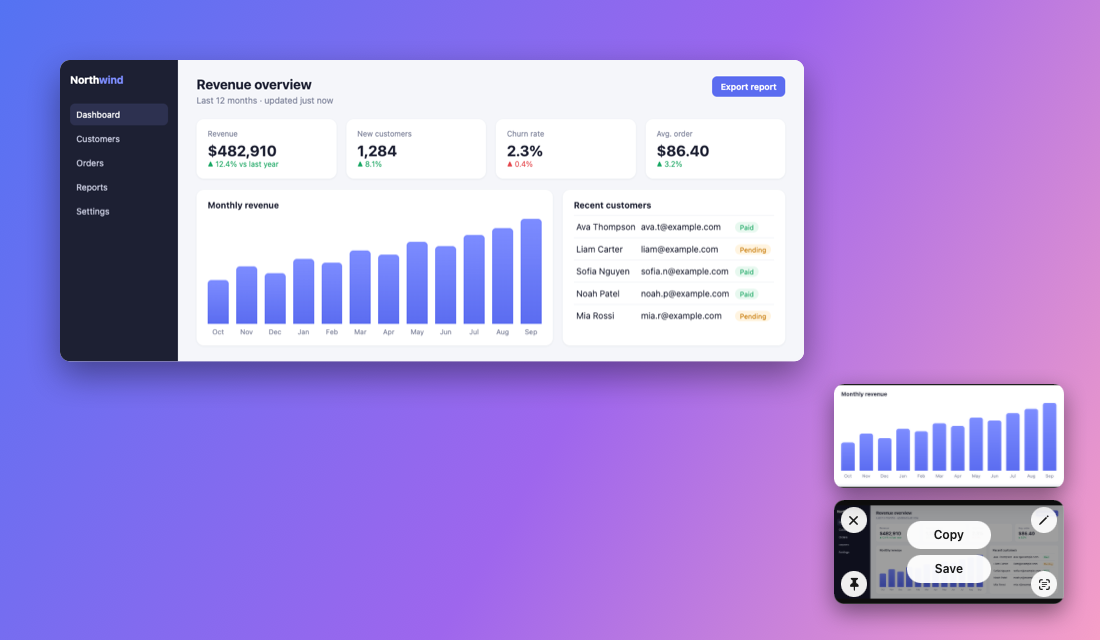
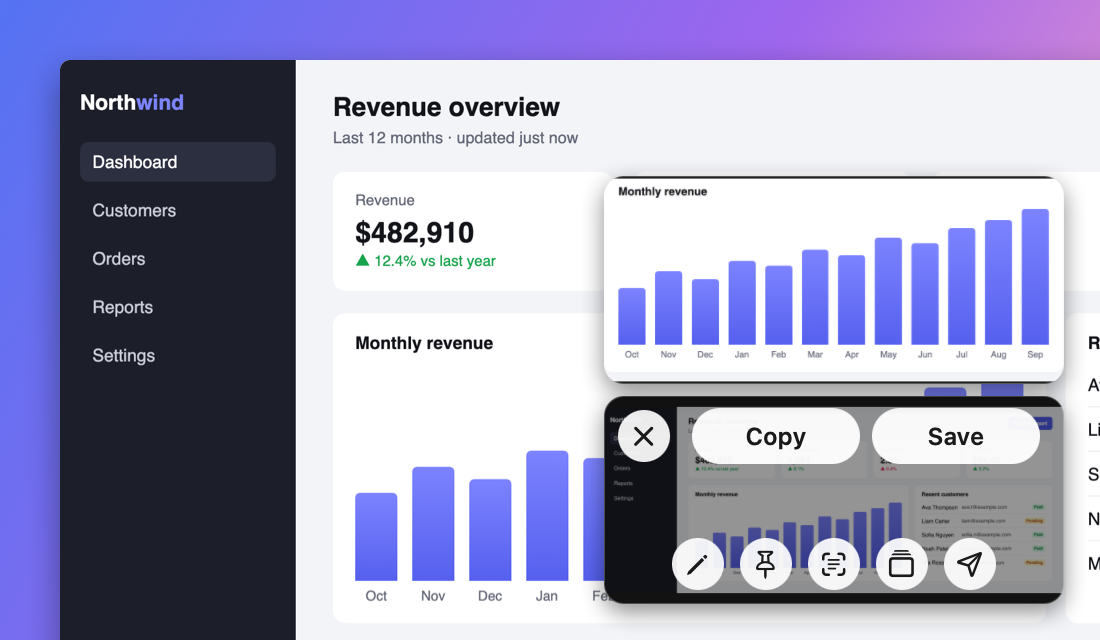
Docs: screenshots of the recent stack, Stitch, Send and the new editor marks (#21)
GLIMPSE_DOCS_ONLY=recent renders editor.png (now with a pencil arrow and a
note beside it), overlay.png (the new thumbnail buttons), recent.png,
stitch.png and send.png (the real Send menu, with made-up sessions). The
README shows the new three. The docs renderer and debug scenarios now never
load your own recent screenshots: the store is memory-only before it first
loads. docs/sample.html is the dashboard the images are drawn on.

diff --git a/Sources/Glimpse/DocsScenario.swift b/Sources/Glimpse/DocsScenario.swift
@@ -9,7 +9,8 @@ import Meetings
 ///
 /// `--env GLIMPSE_DOCS_ONLY=recording` renders just `recording.png` and `settings.png`; `GLIMPSE_DOCS_ONLY=meetings`
 /// renders just `meeting.png`, `transcripts.png` and `settings-meetings.png`; `GLIMPSE_DOCS_ONLY=overlay` renders
-/// `overlay.png` plus each thumbnail hovered on its own.
+/// `overlay.png` plus each thumbnail hovered on its own. `GLIMPSE_DOCS_ONLY=recent` renders `editor.png`, `overlay.png`,
+/// `recent.png` (the recent screenshots stack), `stitch.png` and `send.png` (the Send menu, with sample sessions).
 /// `--env GLIMPSE_DOCS_CALL=/path/call.png` is the video-call window behind the meeting pill (default: the sample).
 /// Sample meetings are written to a temporary folder, never to your meeting history or transcripts. Add
 /// `--args -meetingsEnabled YES` so Settings › Meetings shows meetings turned on (not saved).
@@ -25,6 +26,8 @@ enum DocsScenario {
               let (sample, scale) = ImageUtil.load(url: URL(fileURLWithPath: path)) else { return false }
         let out = URL(fileURLWithPath: dir)
         try? FileManager.default.createDirectory(at: out, withIntermediateDirectories: true)
+        // Before anything adds a capture: never read or write your real recent screenshots.
+        RecentStore.shared.inMemoryOnly = true
         Task { @MainActor in
             if env["GLIMPSE_DOCS_ONLY"] == "recording" {
                 await recording(sample: sample, scale: scale, out: out)
@@ -35,6 +38,10 @@ enum DocsScenario {
                 await overlay(sample: sample, scale: scale, out: out, allHovered: true)
             } else if env["GLIMPSE_DOCS_ONLY"] == "hud" {
                 await hud(out: out)
+            } else if env["GLIMPSE_DOCS_ONLY"] == "recent" {
+                await editor(sample: sample, scale: scale, out: out)
+                await overlay(sample: sample, scale: scale, out: out)
+                await recent(sample: sample, scale: scale, out: out)
             } else {
                 await run(sample: sample, scale: scale, out: out)
             }
@@ -99,37 +106,206 @@ enum DocsScenario {
         await sleep(0.5)
     }
 
-    private static func run(sample: CGImage, scale: CGFloat, out: URL) async {
-        // 1. Editor with annotations.
+    /// `editor.png`: the editor with every kind of mark, a pencil arrow and a note beside it.
+    private static func editor(sample: CGImage, scale: CGFloat, out: URL) async {
         let capture = Capture(image: sample, scale: scale)
         EditorWindowController.open(capture: capture)
         await sleep(1)
-        if let editor = EditorWindowController.openEditors.first, let window = editor.window {
-            let m = editor.model
-            func add(_ kind: AnnotationKind, _ s: CGPoint, _ e: CGPoint, _ color: RGBA = .defaultRed,
-                     width: CGFloat = 5, text: String = "", style: TextStyle = .outline, points: [CGPoint] = []) {
-                var a = Annotation(kind: kind, start: s, end: e, points: points, color: color, lineWidth: width)
-                a.text = text
-                a.textStyle = style
-                a.fontSize = 26
-                m.add(a)
-            }
-            add(.blur, CGPoint(x: 932, y: 256), CGPoint(x: 1084, y: 432))
-            add(.highlighter, .zero, .zero, RGBA.presets[2], width: 5,
-                points: [CGPoint(x: 220, y: 69), CGPoint(x: 440, y: 69)])
-            add(.rectangle, CGPoint(x: 212, y: 90), CGPoint(x: 454, y: 202))
-            add(.counter, CGPoint(x: 212, y: 90), .zero)
-            add(.arrow, CGPoint(x: 640, y: 150), CGPoint(x: 735, y: 262), width: 6)
-            add(.text, CGPoint(x: 520, y: 108), .zero, text: "Best month yet", style: .background)
-            add(.counter, CGPoint(x: 1050, y: 30), .zero, RGBA.presets[4])
-            m.tool = .arrow
-            m.selectedID = nil
-            await sleep(0.8)
-            await captureWindow(window, to: out.appendingPathComponent("editor.png"))
-            editor.model.annotations.removeAll() // don't carry the demo edits back into the capture
-            window.close()
-            await sleep(0.5)
+        guard let editor = EditorWindowController.openEditors.first, let window = editor.window else { return }
+        let m = editor.model
+        func add(_ kind: AnnotationKind, _ s: CGPoint, _ e: CGPoint, _ color: RGBA = .defaultRed,
+                 width: CGFloat = 5, text: String = "", style: TextStyle = .outline, points: [CGPoint] = []) {
+            var a = Annotation(kind: kind, start: s, end: e, points: points, color: color, lineWidth: width)
+            a.text = text
+            a.textStyle = style
+            a.fontSize = 26
+            m.add(a)
         }
+        add(.blur, CGPoint(x: 932, y: 256), CGPoint(x: 1084, y: 432))
+        add(.highlighter, .zero, .zero, RGBA.presets[2], width: 5,
+            points: [CGPoint(x: 220, y: 69), CGPoint(x: 440, y: 69)])
+        add(.rectangle, CGPoint(x: 212, y: 90), CGPoint(x: 454, y: 202))
+        add(.counter, CGPoint(x: 212, y: 90), .zero)
+        // A pencil arrow, curving up and over onto the tallest bar, and its note past the tail.
+        let curve = (0...36).map { i -> CGPoint in
+            let t = CGFloat(i) / 36, u = 1 - t
+            let p0 = CGPoint(x: 470, y: 292), c = CGPoint(x: 640, y: 205), p1 = CGPoint(x: 754, y: 256)
+            return CGPoint(x: u * u * p0.x + 2 * u * t * c.x + t * t * p1.x, y: u * u * p0.y + 2 * u * t * c.y + t * t * p1.y)
+        }
+        let arrow = Annotation(kind: .arrow, start: curve[0], end: curve[curve.count - 1], points: curve,
+                               color: .defaultRed, lineWidth: 6)
+        m.add(arrow)
+        var (note, _) = NotePlacement.note("Best month yet", beside: arrow, imageSize: m.imageSize, color: .defaultRed,
+                                           fontSize: 26, style: .background)
+        note.fontSize = 26
+        m.add(note)
+        add(.counter, CGPoint(x: 1050, y: 30), .zero, RGBA.presets[4])
+        m.tool = .arrow
+        m.selectedID = nil
+        await sleep(0.8)
+        await captureWindow(window, to: out.appendingPathComponent("editor.png"))
+        m.annotations.removeAll() // don't carry the demo edits back into the capture
+        window.close()
+        await sleep(0.5)
+        QuickAccessManager.shared.closeAll()
+        await sleep(0.3)
+    }
+
+    /// Marks drawn on a capture, as if you'd drawn them in the editor.
+    private static func mark(_ capture: Capture, _ annotations: [Annotation]) {
+        let size = CGSize(width: CGFloat(capture.image.width) / capture.scale, height: CGFloat(capture.image.height) / capture.scale)
+        var state = EditorDocumentState(annotations: [], cropRect: CGRect(origin: .zero, size: size), outputScale: 1)
+        state.annotations = annotations
+        capture.apply(state)
+    }
+
+    /// `recent.png`, `stitch.png` and `send.png`.
+    private static func recent(sample: CGImage, scale: CGFloat, out: URL) async {
+        func crop(_ r: CGRect) -> Capture {
+            Capture(image: ImageUtil.crop(sample, toPoints: r, scale: scale) ?? sample, scale: scale)
+        }
+        let kpis = crop(CGRect(x: 205, y: 70, width: 990, height: 130))
+        let customers = crop(CGRect(x: 806, y: 200, width: 394, height: 286))
+        let chart = crop(CGRect(x: 212, y: 200, width: 590, height: 286))
+        let whole = Capture(image: sample, scale: scale)
+        // Yours: a box and a step on the churn card.
+        mark(kpis, [
+            Annotation(kind: .rectangle, start: CGPoint(x: 498, y: 20), end: CGPoint(x: 728, y: 124), color: .defaultRed, lineWidth: 5),
+        ])
+        // The agent's: its own colour, a box, an arrow with a note, a number.
+        let claude = AgentColors.rgba(for: "Claude")
+        let agent = Capture(image: sample, scale: scale)
+        agent.author = "Claude"
+        agent.label = "spacing"
+        var box = Annotation(kind: .rectangle, start: CGPoint(x: 205, y: 82), end: CGPoint(x: 1195, y: 200), color: claude, lineWidth: 5)
+        box.text = ""
+        let pts = (0...30).map { i -> CGPoint in
+            let t = CGFloat(i) / 30, u = 1 - t
+            return CGPoint(x: u * u * 560 + 2 * u * t * 470 + t * t * 470, y: u * u * 300 + 2 * u * t * 300 + t * t * 206)
+        }
+        let arrow = Annotation(kind: .arrow, start: pts[0], end: pts[pts.count - 1], points: pts, color: claude, lineWidth: 6)
+        let (note, _) = NotePlacement.note("16 pt gaps here", beside: arrow, imageSize: CGSize(width: 1200, height: 486),
+                                           color: claude, fontSize: 26, style: .background)
+        mark(agent, [box, arrow, note])
+        for c in [whole, chart, customers, kpis, agent] { RecentStore.shared.add(c) }
+
+        let stack = RecentStackController.shared
+        stack.show()
+        await sleep(1)
+        stack.toggleSelection(kpis.id)
+        stack.toggleSelection(customers.id)
+        await sleep(0.6)
+        if let panel = NSApp.windows.first(where: { $0 is StackPanel && $0.isVisible }),
+           let (img, s) = try? await ScreenCapture.captureWindow(CGWindowID(panel.windowNumber)),
+           let composite = recentComposite(sample: sample, panel: img, panelScale: s) {
+            try? ImageExporter.write(composite, scale: 1, to: out.appendingPathComponent("recent.png"))
+        }
+        stack.hide(animated: false)
+        await sleep(0.3)
+
+        if let (image, _) = Collage.render([chart.image, customers.image, kpis.image]) {
+            try? ImageExporter.write(image, scale: scale, to: out.appendingPathComponent("stitch.png"))
+        }
+
+        await send(chart: crop(CGRect(x: 205, y: 205, width: 995, height: 281)), out: out)
+    }
+
+    /// The stack panel at the right edge of a desktop, over a window.
+    private static func recentComposite(sample: CGImage, panel: CGImage, panelScale: CGFloat) -> CGImage? {
+        let ph = CGFloat(panel.height) / panelScale, pw = CGFloat(panel.width) / panelScale
+        let size = CGSize(width: 1100, height: max(640, ph + 72))
+        guard let ctx = context(size) else { return nil }
+        drawWallpaper(ctx, size)
+        drawWindow(sample, at: CGPoint(x: 50, y: (size.height - 486 * 0.62) / 2), scale: 0.62, in: ctx, canvasHeight: size.height)
+        let rect = CGRect(x: size.width - pw - 24, y: 36, width: pw, height: ph)
+        ctx.saveGState()
+        ctx.setShadow(offset: CGSize(width: 0, height: -8), blur: 26, color: CGColor(gray: 0, alpha: 0.45))
+        ctx.interpolationQuality = .high
+        ctx.draw(panel, in: rect)
+        ctx.restoreGState()
+        return ctx.makeImage()
+    }
+
+    /// `send.png`: the editor with a drawing and the Send menu open over it, listing sample sessions. The menu is the
+    /// one Send builds (titles, subtitles, app icons); the sessions are made up.
+    private static func send(chart: Capture, out: URL) async {
+        mark(chart, [])
+        EditorWindowController.open(capture: chart)
+        await sleep(1)
+        guard let editor = EditorWindowController.openEditors.first, let window = editor.window else { return }
+        let m = editor.model
+        let pts = (0...30).map { i -> CGPoint in
+            let t = CGFloat(i) / 30, u = 1 - t
+            return CGPoint(x: u * u * 335 + 2 * u * t * 475 + t * t * 550, y: u * u * 55 + 2 * u * t * 35 + t * t * 62)
+        }
+        let arrow = Annotation(kind: .arrow, start: pts[0], end: pts[pts.count - 1], points: pts, color: .defaultRed, lineWidth: 6)
+        m.add(arrow)
+        let (note, _) = NotePlacement.note("why does Sep jump?", beside: arrow, imageSize: m.imageSize, color: .defaultRed,
+                                           fontSize: 24, style: .background)
+        m.add(note)
+        m.tool = .select
+        m.selectedID = nil
+        await sleep(0.6)
+
+        let sessions: [(String, String, String)] = [
+            ("Revenue chart tooltips", "Claude Code · ~/code/northwind · Ghostty", "com.mitchellh.ghostty"),
+            ("Fix the churn calculation", "Claude Code · ~/code/northwind-api · Claude", "com.anthropic.claudefordesktop"),
+            ("northwind-ios", "Codex · ~/code/northwind-ios · Terminal", "com.apple.Terminal"),
+        ]
+        let menu = NSMenu()
+        menu.autoenablesItems = false
+        menu.addItem(.sectionHeader(title: "Send to"))
+        for (i, (title, detail, bundle)) in sessions.enumerated() {
+            let item = NSMenuItem(title: title, action: nil, keyEquivalent: i == 0 ? "\r" : "\(i + 1)")
+            item.keyEquivalentModifierMask = []
+            if #available(macOS 14.4, *) { item.subtitle = detail } else { item.title = "\(title) — \(detail)" }
+            let url = NSWorkspace.shared.urlForApplication(withBundleIdentifier: bundle)
+                ?? NSWorkspace.shared.urlForApplication(withBundleIdentifier: "com.apple.Terminal")
+            if let url {
+                let icon = NSWorkspace.shared.icon(forFile: url.path)
+                icon.size = NSSize(width: 18, height: 18)
+                item.image = icon
+            }
+            menu.addItem(item)
+        }
+        // With several sessions running, the button reads "Send to…".
+        m.sendTitle = "Send to…"
+        await sleep(0.3)
+        let content = window.contentView!
+        let at = NSPoint(x: content.bounds.width * 0.5, y: content.bounds.height * 0.47)
+        let shot = out.appendingPathComponent("send.png")
+        var captured = false
+        // The menu runs its own loop on the main thread, so the main actor can't run anything until it closes:
+        // capture from a timer in that loop, synchronously, then close the menu. `screencapture -l` with the menu's
+        // window gives the window it opened over with the menu on top, and the window's shadow.
+        let timer = Timer(timeInterval: 0.8, repeats: false) { _ in
+            let pid = ProcessInfo.processInfo.processIdentifier
+            let list = CGWindowListCopyWindowInfo([.optionOnScreenOnly], kCGNullWindowID) as? [[String: Any]] ?? []
+            if let info = list.first(where: { ($0[kCGWindowOwnerPID as String] as? Int32) == pid
+                    && ($0[kCGWindowLayer as String] as? Int ?? 0) >= 101 }),
+               let id = info[kCGWindowNumber as String] as? CGWindowID {
+                let p = Process()
+                p.executableURL = URL(fileURLWithPath: "/usr/sbin/screencapture")
+                p.arguments = ["-x", "-l", "\(id)", shot.path]
+                try? p.run()
+                p.waitUntilExit()
+                captured = p.terminationStatus == 0
+            }
+            menu.cancelTracking()
+        }
+        RunLoop.main.add(timer, forMode: .common)
+        NSApp.activate(ignoringOtherApps: true)
+        menu.popUp(positioning: menu.items[1], at: at, in: content)
+        timer.invalidate()
+        if !captured { NSLog("Glimpse docs: could not capture the Send menu") }
+        m.annotations.removeAll()
+        window.close()
+        await sleep(0.3)
+    }
+
+    private static func run(sample: CGImage, scale: CGFloat, out: URL) async {
+        // 1. Editor with annotations.
+        await editor(sample: sample, scale: scale, out: out)
         QuickAccessManager.shared.closeAll()
         await sleep(0.5)
 

diff --git a/docs/sample.html b/docs/sample.html
@@ -1,0 +1,38 @@
+<!doctype html><html><head><meta charset="utf-8"><style>
+*{box-sizing:border-box;margin:0}
+body{width:1200px;height:486px;font-family:-apple-system,"SF Pro Text",sans-serif;display:flex;background:#f3f4f8;color:#14151a}
+.side{width:190px;background:#1c1e29;color:#c9cbd6;padding:24px 16px}
+.side b{display:block;color:#fff;font-size:17px;margin:0 0 22px 0}.side b span{color:#7c83ff}
+.side p{padding:8px 10px;margin:0 0 7px;border-radius:7px;font-size:14px}.side p.on{background:#2c2f40;color:#fff}
+.main{flex:1;padding:26px 30px 0}
+.head{display:flex;justify-content:space-between;align-items:flex-start}
+h1{font-size:21px;font-weight:700}small{font-size:13px;color:#646777;display:block;margin-top:5px}
+.btn{background:#4f5be8;color:#fff;font-weight:600;font-size:14px;padding:9px 14px;border-radius:7px;margin-top:0}
+.kpis{display:grid;grid-template-columns:repeat(4,1fr);gap:16px;margin-top:20px}
+.kpis div{background:#fff;border-radius:10px;padding:16px 18px;height:96px}
+.kpis small{margin:0 0 6px;font-size:12px}.kpis b{font-size:23px;display:block}.kpis em{font-style:normal;font-size:12px;color:#16a34a}.kpis em.dn{color:#e11d48}
+.row{display:grid;grid-template-columns:575px 1fr;gap:16px;margin-top:18px}
+.card{background:#fff;border-radius:10px;padding:16px 18px;height:250px}
+.card h2{font-size:14px;font-weight:700}
+.bars{display:flex;align-items:flex-end;gap:12px;height:170px;margin-top:14px}
+.bars i{flex:1;background:linear-gradient(#7c83ff,#5560ee);border-radius:4px 4px 0 0;height:calc(var(--h)*1%)}
+.months{display:flex;gap:12px;margin-top:6px}.months span{flex:1;text-align:center;font-size:11px;color:#646777}
+.cust p{display:flex;align-items:center;border-bottom:1px solid #eee;height:36px;font-size:14px}
+.cust p:last-child{border:0}
+.cust .n{width:104px}.cust .e{flex:1;color:#555;font-size:13px}
+.cust em{font-style:normal;font-size:11px;font-weight:600;padding:2px 7px;border-radius:9px;background:#dcfce7;color:#15803d}
+.cust em.p{background:#fef3c7;color:#b45309}
+</style></head><body>
+<div class="side"><b>North<span>wind</span></b><p class="on">Dashboard</p><p>Customers</p><p>Orders</p><p>Reports</p><p>Settings</p></div>
+<div class="main">
+<div class="head"><div><h1>Revenue overview</h1><small>Last 12 months · updated just now</small></div><span class="btn">Export report</span></div>
+<div class="kpis"><div><small>Revenue</small><b>$482,910</b><em>▲ 12.4% vs last year</em></div><div><small>New customers</small><b>1,284</b><em>▲ 8.1%</em></div><div><small>Churn rate</small><b>2.3%</b><em class="dn">▲ 0.4%</em></div><div><small>Avg. order</small><b>$86.40</b><em>▲ 3.2%</em></div></div>
+<div class="row"><div class="card"><h2>Monthly revenue</h2><div class="bars"><i style="--h:42"></i><i style="--h:54"></i><i style="--h:48"></i><i style="--h:62"></i><i style="--h:58"></i><i style="--h:70"></i><i style="--h:66"></i><i style="--h:79"></i><i style="--h:75"></i><i style="--h:86"></i><i style="--h:92"></i><i style="--h:100"></i></div>
+<div class="months"><span>Oct</span><span>Nov</span><span>Dec</span><span>Jan</span><span>Feb</span><span>Mar</span><span>Apr</span><span>May</span><span>Jun</span><span>Jul</span><span>Aug</span><span>Sep</span></div></div>
+<div class="card cust"><h2 style="margin-bottom:8px">Recent customers</h2>
+<p><span class="n">Ava Thompson</span><span class="e">ava.t@example.com</span><em>Paid</em></p>
+<p><span class="n">Liam Carter</span><span class="e">liam@example.com</span><em class="p">Pending</em></p>
+<p><span class="n">Sofia Nguyen</span><span class="e">sofia.n@example.com</span><em>Paid</em></p>
+<p><span class="n">Noah Patel</span><span class="e">noah.p@example.com</span><em>Paid</em></p>
+<p><span class="n">Mia Rossi</span><span class="e">mia@example.com</span><em class="p">Pending</em></p></div></div>
+</div></body></html>

diff --git a/Sources/Glimpse/AppDelegate.swift b/Sources/Glimpse/AppDelegate.swift
@@ -40,7 +40,9 @@ final class AppDelegate: NSObject, NSApplicationDelegate, NSMenuDelegate {
         HotkeyManager.shared.handler = { action in CaptureCoordinator.shared.perform(action) }
         HotkeyManager.shared.install()
         #if DEBUG
-        if ProcessInfo.processInfo.environment["GLIMPSE_DEBUG_SCENARIO"] != nil { RecentStore.shared.inMemoryOnly = true }
+        // Debug scenarios and the docs renderer never read or write your real recent screenshots.
+        let env = ProcessInfo.processInfo.environment
+        if env["GLIMPSE_DEBUG_SCENARIO"] != nil || env["GLIMPSE_DOCS_DIR"] != nil { RecentStore.shared.inMemoryOnly = true }
         #endif
         RecentStore.shared.load()
         ShiftTapMonitor.shared.refresh()

diff --git a/README.md b/README.md
@@ -130,6 +130,10 @@ with `Esc` and you're right where you were.
   Claude shrinks large images before it reads them (to about 1568 px and 1.15 megapixels), so Stitch picks
   the arrangement that's shrunk the least, keeping the most detail of every piece.
 
+![Three screenshots stitched into one image, numbered 1 to 3](docs/stitch.png)
+
+![The recent screenshots stack beside a window, with two cards selected and an agent's card at the bottom](docs/recent.png)
+
 Your marks stay editable: open a card again to move, change or delete any of them. The cards are kept in
 `~/Library/Application Support/Glimpse/Recent` (turn that off in **Settings › Quick Access**). Watching for
 the Shift double-tap needs the Accessibility permission.
@@ -141,6 +145,8 @@ running, it goes straight there, in a terminal, an editor or the Claude app. Wit
 (or folder), with the folder and the app each runs in. The one whose window you used last comes first: press `↩` to
 send there, or pick another (the next ones answer to `2` to `9`). Closing the menu sends nothing and leaves the
 editor or stack open.
+
+![Sending a marked-up chart: the Send menu lists three agent sessions with their folders and apps](docs/send.png)
 
 Send needs Glimpse's Claude Code plugin: **Settings › Agents › Claude Code plugin › Install** (it runs
 `claude plugin install` for you). The plugin keeps a small inbox for each running session. Send drops the
@@ -421,7 +427,12 @@ everywhere.
   open -n build/debug/Glimpse.app --env GLIMPSE_DOCS_DIR="$PWD/docs" --env GLIMPSE_DOCS_SAMPLE=/path/to/sample.png
   ```
 
-  Add `--env GLIMPSE_DOCS_ONLY=recording` to render only `recording.png` and `settings.png`. The camera bubble
+  The sample is [`docs/sample.html`](docs/sample.html), a made-up dashboard: screenshot it at 1200 × 486 points
+  on a Retina display (or at 2× in a browser) and save it at 144 dpi, so the marks land where the scenario expects.
+
+  Add `--env GLIMPSE_DOCS_ONLY=recording` to render only `recording.png` and `settings.png`, or
+  `--env GLIMPSE_DOCS_ONLY=recent` for `editor.png`, `overlay.png`, `recent.png` (the stack), `stitch.png` and
+  `send.png` (the Send menu, listing made-up sessions). The renderer never reads or writes your own recent screenshots. The camera bubble
   shows `--env GLIMPSE_DOCS_AVATAR=/path/face.png` (an AI-generated face, not a real person) or a drawn
   silhouette, never your camera.
 
